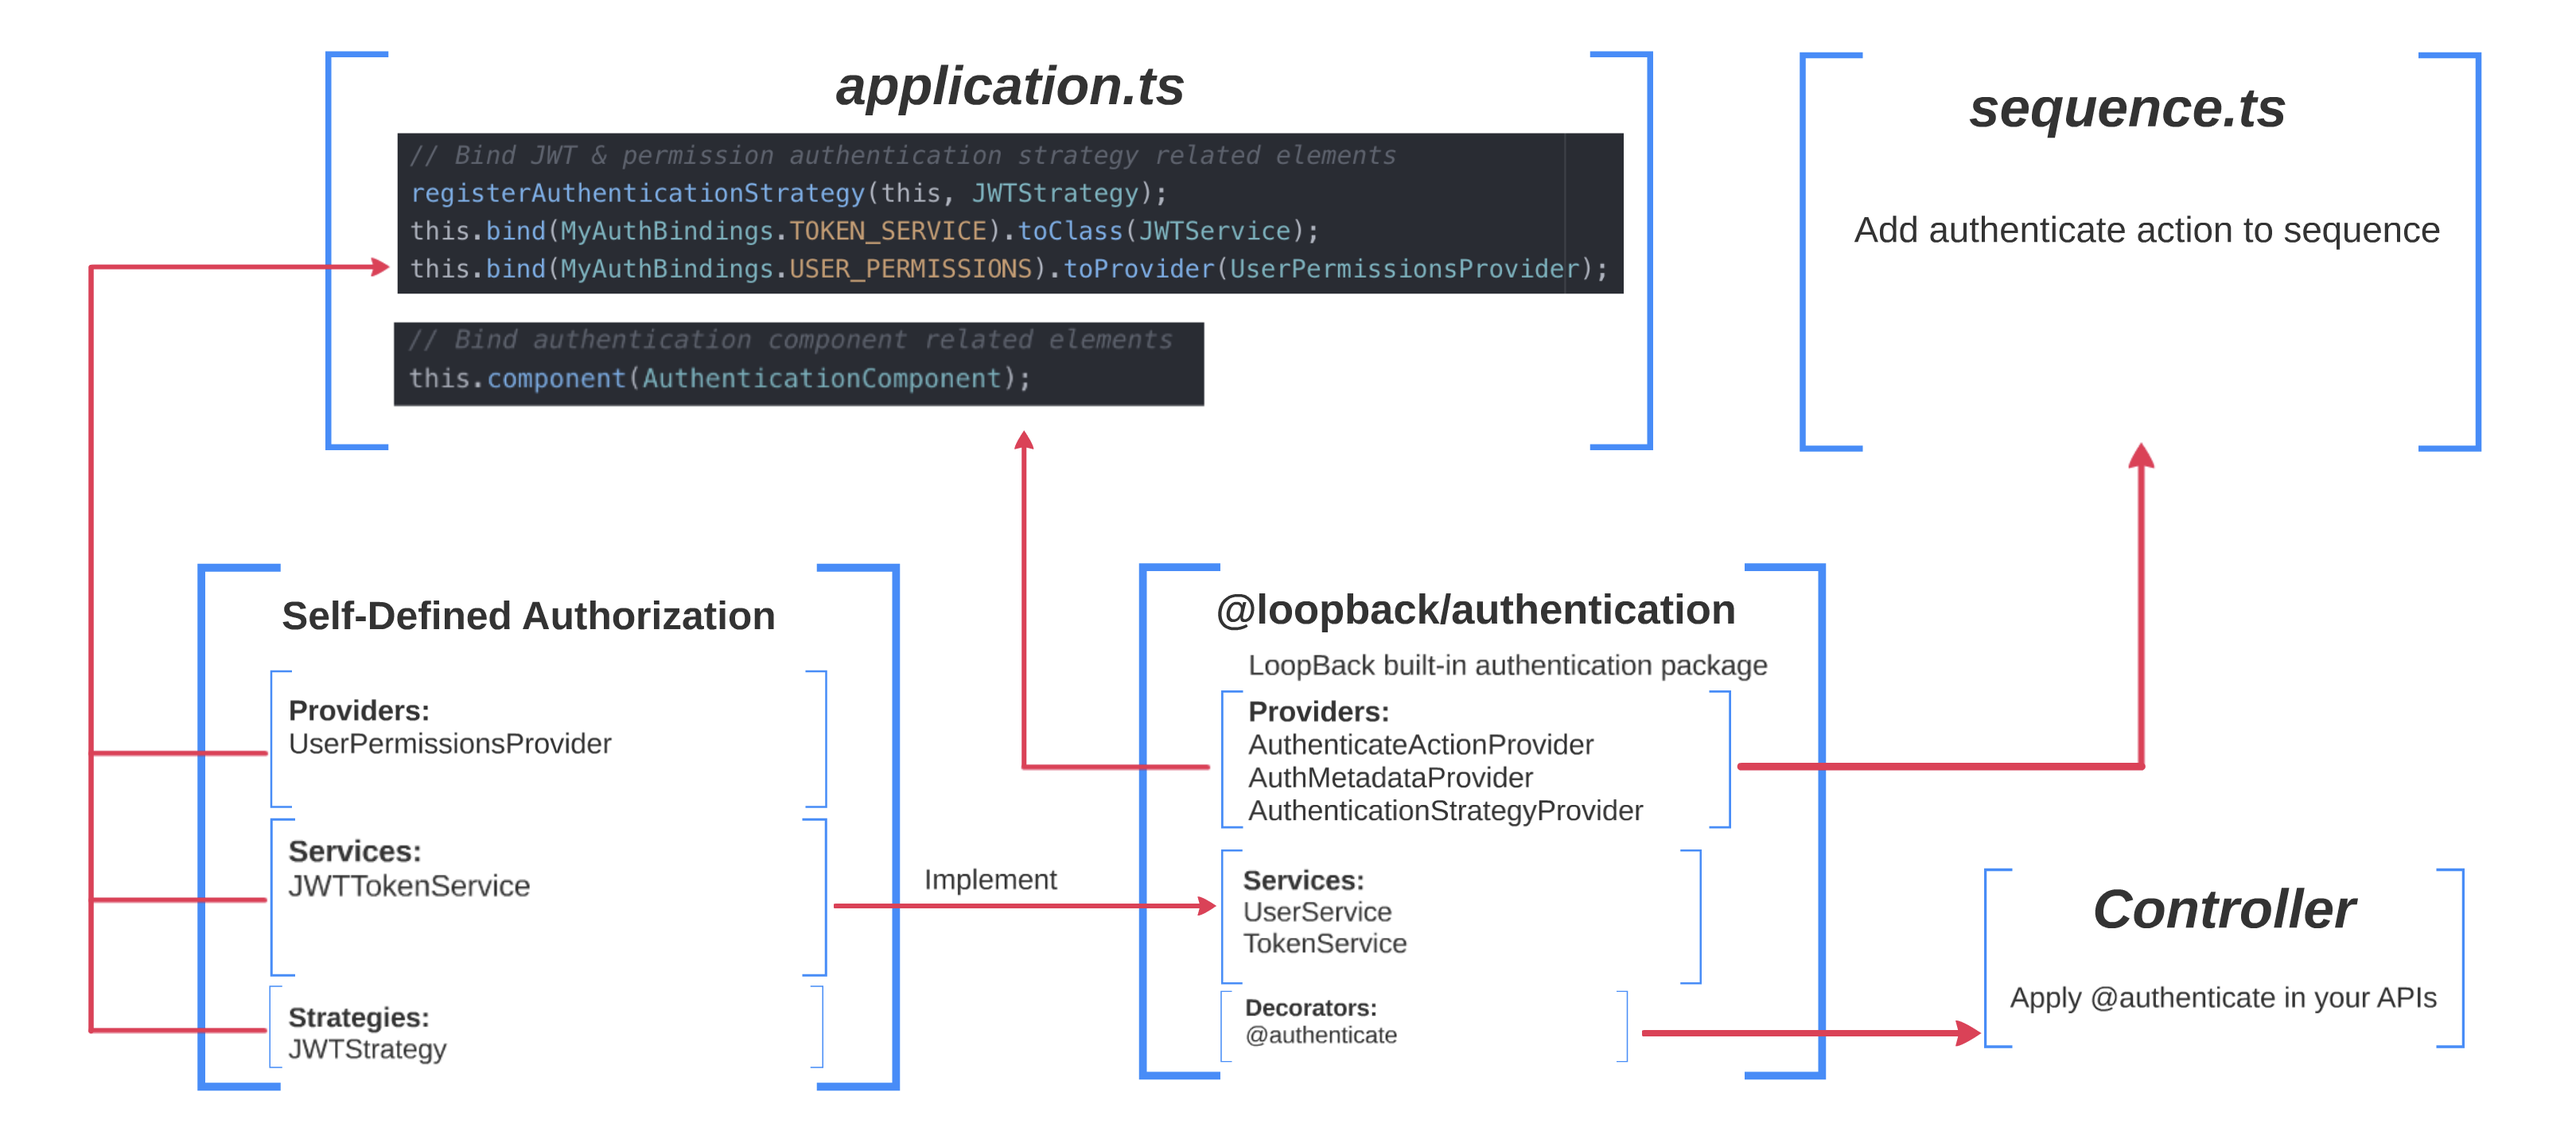
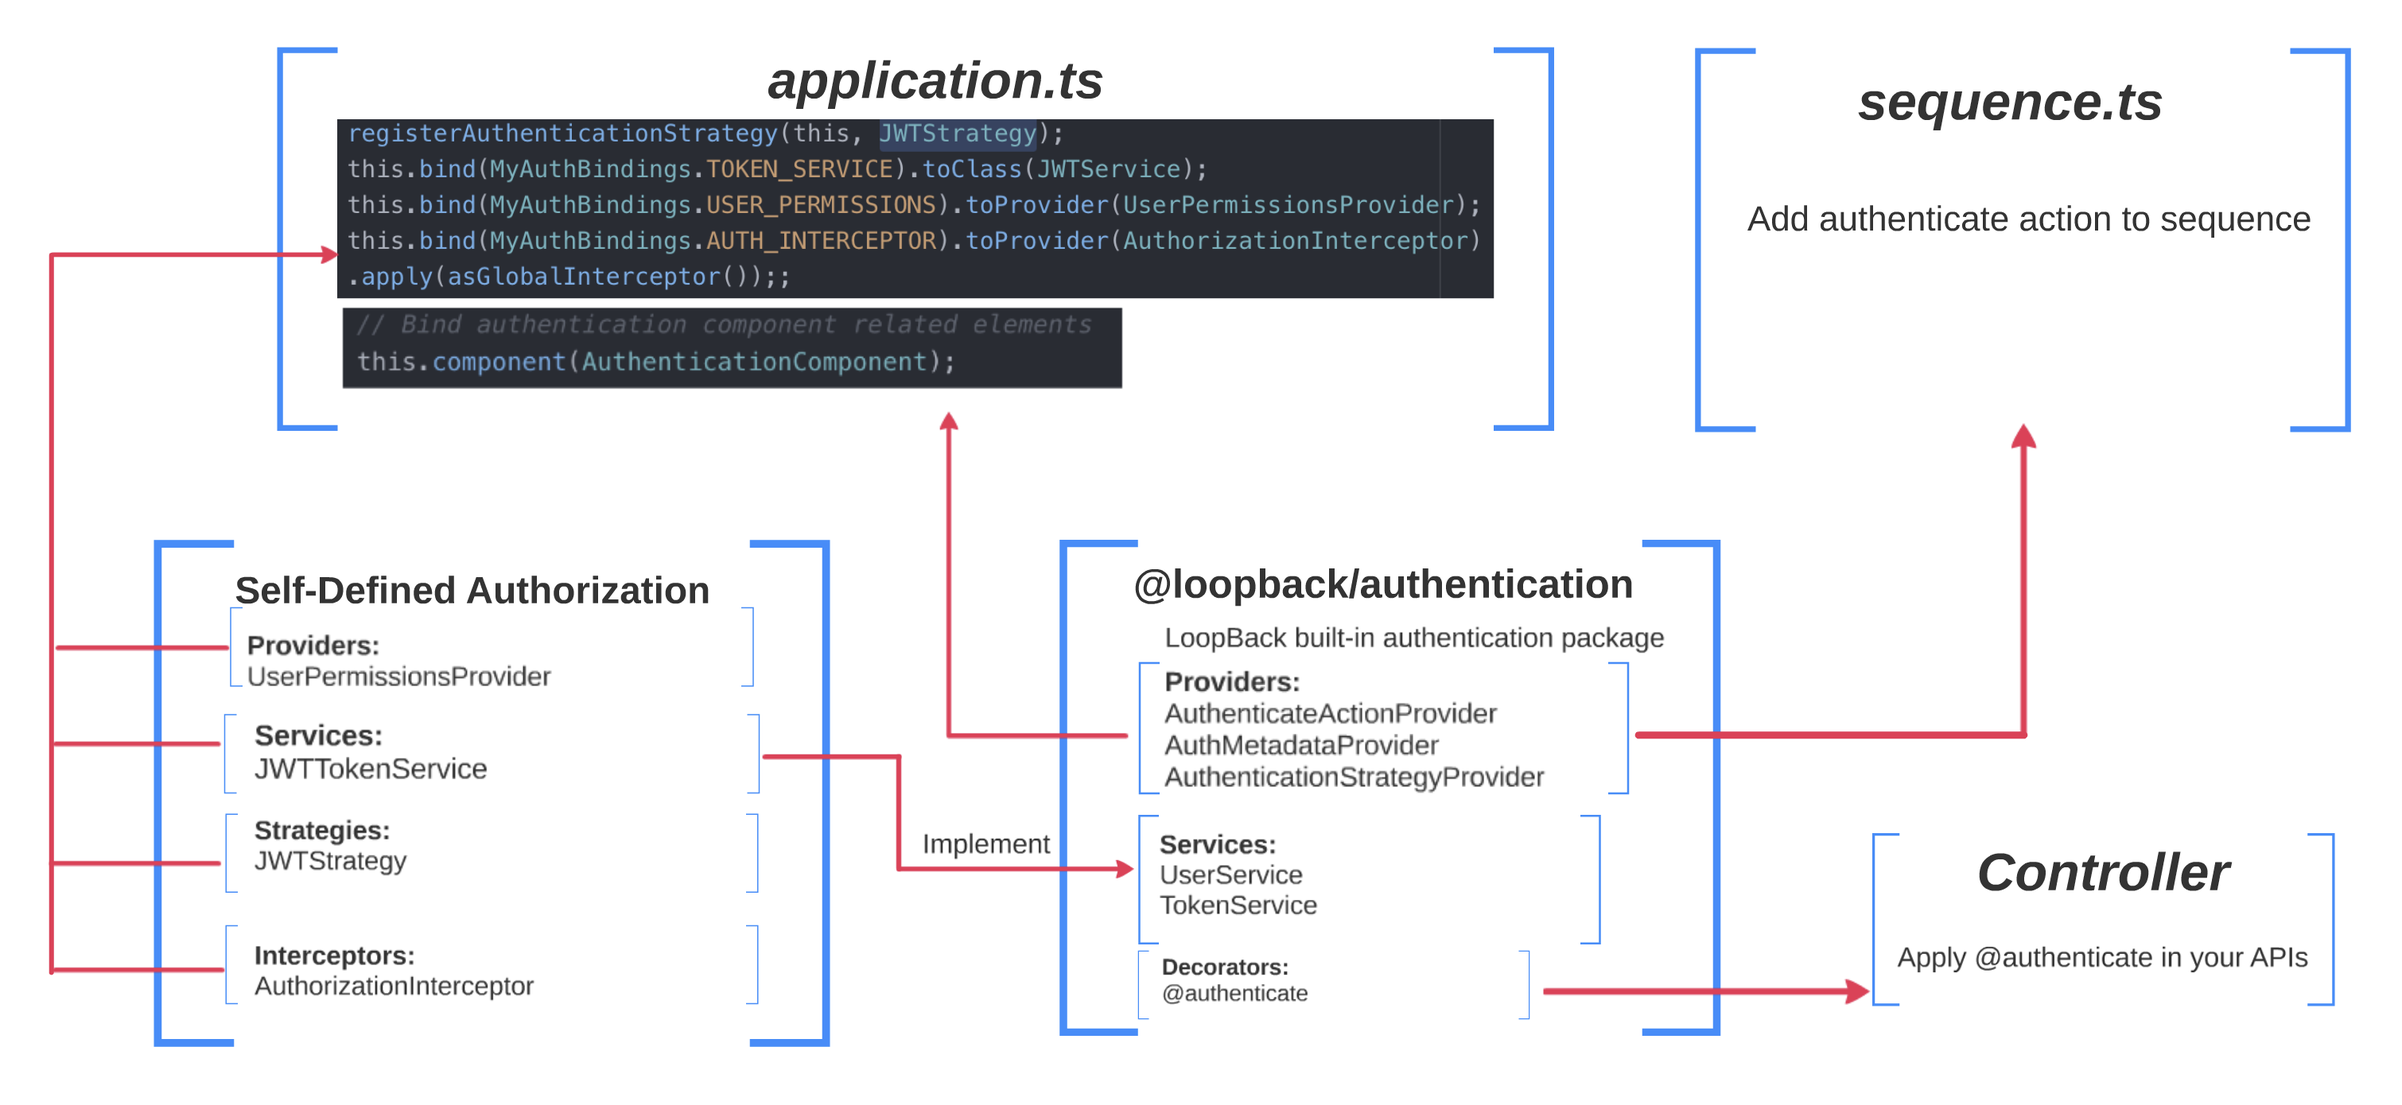
master

diff --git a/firstgame/src/application.ts b/firstgame/src/application.ts
@@ -30,7 +30,6 @@ export class FirstgameApplication extends BootMixin(
     //add
     // Bind authentication component related elements
     this.component(AuthenticationComponent);
-
     // Bind JWT & permission authentication strategy related elements
     registerAuthenticationStrategy(this, JWTStrategy);
     this.bind(MyAuthBindings.TOKEN_SERVICE).toClass(JWTService);

diff --git a/blog/2019-06-05-building-an-online-game-with-loopback-4-pt4.md b/blog/2019-06-05-building-an-online-game-with-loopback-4-pt4.md
@@ -64,13 +64,16 @@ The one in the middle is the `@loopback/authentication` package. It has three ma
 The one in the bottom left is our self-defined authorization. It has three components:
 
 * Providers:
-  * UserPermissionsProvider: this will check user's permission. We will create different user permissions for different users.
+  * UserPermissionsProvider: this will check user's permission. We will create different user permissions for different users. This provider will be invoked in AuthorizationInterceptor.
 
 * Strategies: this is where we add our own authentication strategies.
   * JWTStrategy: we are going to create a custom authentication strategy based on [JSON Web Token](https://jwt.io/).
 
 * Services:
   * JWTService: a service associate with JWTStrategy to generate and verify JWT.
+
+* Interceptors:
+  * AuthorizationInterceptor: a middle layer between API request and authentication strategy that use UserPermissionsProvider to verify user's permission.
 
 #### `application.ts`, `sequence.ts` and `controller`
 
@@ -247,7 +250,7 @@ export const CredentialsRequestBody = {
 Create `keys.ts` in `src/authorization`. `MyAuthBindings` is the self-defined component that we need to bind to `application.ts`. `TokenServiceConstants` is the value we will use later in token service.
 
 ```ts
-import {BindingKey} from '@loopback/context';
+import {BindingKey, Interceptor} from '@loopback/context';
 import {UserPermissionsFn} from './types';
 import {TokenService} from '@loopback/authentication';
 /**
@@ -260,6 +263,10 @@ export namespace MyAuthBindings {
 
   export const TOKEN_SERVICE = BindingKey.create<TokenService>(
     'services.authentication.jwt.tokenservice',
+  );
+
+  export const AUTH_INTERCEPTOR = BindingKey.create<Interceptor>(
+    'interceptors.authorization',
   );
 }
 
@@ -324,8 +331,9 @@ import {MyUserProfile,
         RequiredPermissions,} from '../types';
 import {MyAuthBindings,} from '../keys';
 import * as _ from 'lodash';
+import {intercept} from '@loopback/context';
 
-
+@intercept(MyAuthBindings.AUTH_INTERCEPTOR)
 export class JWTStrategy implements AuthenticationStrategy{
   name: string = 'jwt';
 
@@ -339,22 +347,11 @@ export class JWTStrategy implements AuthenticationStrategy{
   ) {}
   async authenticate(request: Request): Promise<MyUserProfile | undefined> {
     const token: string = this.extractCredentials(request);
-
-    try {
+    try{
       const user: MyUserProfile = await this.tokenService.verifyToken(token) as MyUserProfile;
-      const requiredPermissions = this.metadata.options as RequiredPermissions;
-      if(!this.checkPermissons(
-        user.permissions ,
-        requiredPermissions
-      )){
-        throw new HttpErrors.Forbidden('INVALID_ACCESS_PERMISSION');
-      }
       return user;
     } catch (err) {
-      Object.assign(err, {
-        code: 'INVALID_ACCESS_TOKEN',
-        statusCode: 401,
-      });
+      Object.assign(err, {code: 'INVALID_ACCESS_TOKEN', statusCode: 401,});
       throw err;
     }
   }
@@ -363,8 +360,6 @@ export class JWTStrategy implements AuthenticationStrategy{
     if (!request.headers.authorization) {
       throw new HttpErrors.Unauthorized(`Authorization header not found.`);
     }
-
-    // for example : Bearer xxx.yyy.zzz
     const authHeaderValue = request.headers.authorization;
 
     if (!authHeaderValue.startsWith('Bearer')) {
@@ -372,21 +367,66 @@ export class JWTStrategy implements AuthenticationStrategy{
         `Authorization header is not of type 'Bearer'.`,
       );
     }
-
-    //split the string into 2 parts : 'Bearer ' and the `xxx.yyy.zzz`
     const parts = authHeaderValue.split(' ');
     if (parts.length !== 2)
       throw new HttpErrors.Unauthorized(
         `Authorization header value has too many parts. It must follow the pattern: 'Bearer xx.yy.zz' where xx.yy.zz is a valid JWT token.`,
       );
       const token = parts[1];
-
       return token;
   }
 }
 ```
 
+The `@intercept(MyAuthBindings.AUTH_INTERCEPTOR)` above this class is how we apply the AuthorizationInterceptor. We will cover it later.
+
 You can even use multiple strategies in one project; if needed.
+
+#### Interceptor
+
+Create a folder `interceptors` in `src/authorization`, then inside `interceptors`, create a file named `authorization.interceptor.ts`.
+
+Interceptor is a middle layer between API request and authentication strategy. After the strategy verified user's access token, interceptor will verify use's permission.
+
+```ts
+import {
+  inject,
+  Interceptor,
+  Provider,
+} from '@loopback/context';
+import {Getter} from '@loopback/core';
+import {MyAuthBindings,} from '../keys';
+import {HttpErrors} from '@loopback/rest';
+import {MyUserProfile,
+        UserPermissionsFn,
+        RequiredPermissions,} from '../types';
+import {AuthenticationMetadata,AuthenticationBindings} from '@loopback/authentication';
+
+export class AuthorizationInterceptor implements Provider<Interceptor> {
+  constructor(
+    @inject(AuthenticationBindings.METADATA)
+    public metadata: AuthenticationMetadata,
+    @inject(MyAuthBindings.USER_PERMISSIONS)
+    protected checkPermissons: UserPermissionsFn,
+    @inject.getter(AuthenticationBindings.CURRENT_USER)
+    public getCurrentUser: Getter<MyUserProfile>,
+  ) {}
+
+  value(): Interceptor {
+    return async (invocationCtx, next) => {
+      if (!this.metadata) return await next();
+      const result = await next();
+
+      const requiredPermissions = this.metadata.options as RequiredPermissions;
+      const user = await this.getCurrentUser();
+      if(!this.checkPermissons(user.permissions, requiredPermissions)){
+        throw new HttpErrors.Forbidden('INVALID_ACCESS_PERMISSION');
+      }
+      return result;
+    };
+  }
+}
+```
 
 #### Services
 
@@ -463,10 +503,12 @@ You can also create your own authentication services, like Hash Password service
 Open `src/application.ts`, and add the following imports.
 
 ```ts
+import {asGlobalInterceptor} from '@loopback/context';
 import {MyAuthBindings,
         JWTService,
         JWTStrategy,
         UserPermissionsProvider,
+        AuthorizationInterceptor,
 } from './authorization';
 import {AuthenticationComponent,
        registerAuthenticationStrategy,
@@ -486,7 +528,9 @@ constructor(options: ApplicationConfig = {}) {
   registerAuthenticationStrategy(this, JWTStrategy);
   this.bind(MyAuthBindings.TOKEN_SERVICE).toClass(JWTService);
   this.bind(MyAuthBindings.USER_PERMISSIONS).toProvider(UserPermissionsProvider);
-```
+  this.bind(MyAuthBindings.AUTH_INTERCEPTOR).toProvider(AuthorizationInterceptor)
+  .apply(asGlobalInterceptor());;
+  ```
 
 If you have more authentication strategies, add them in this way:
 
